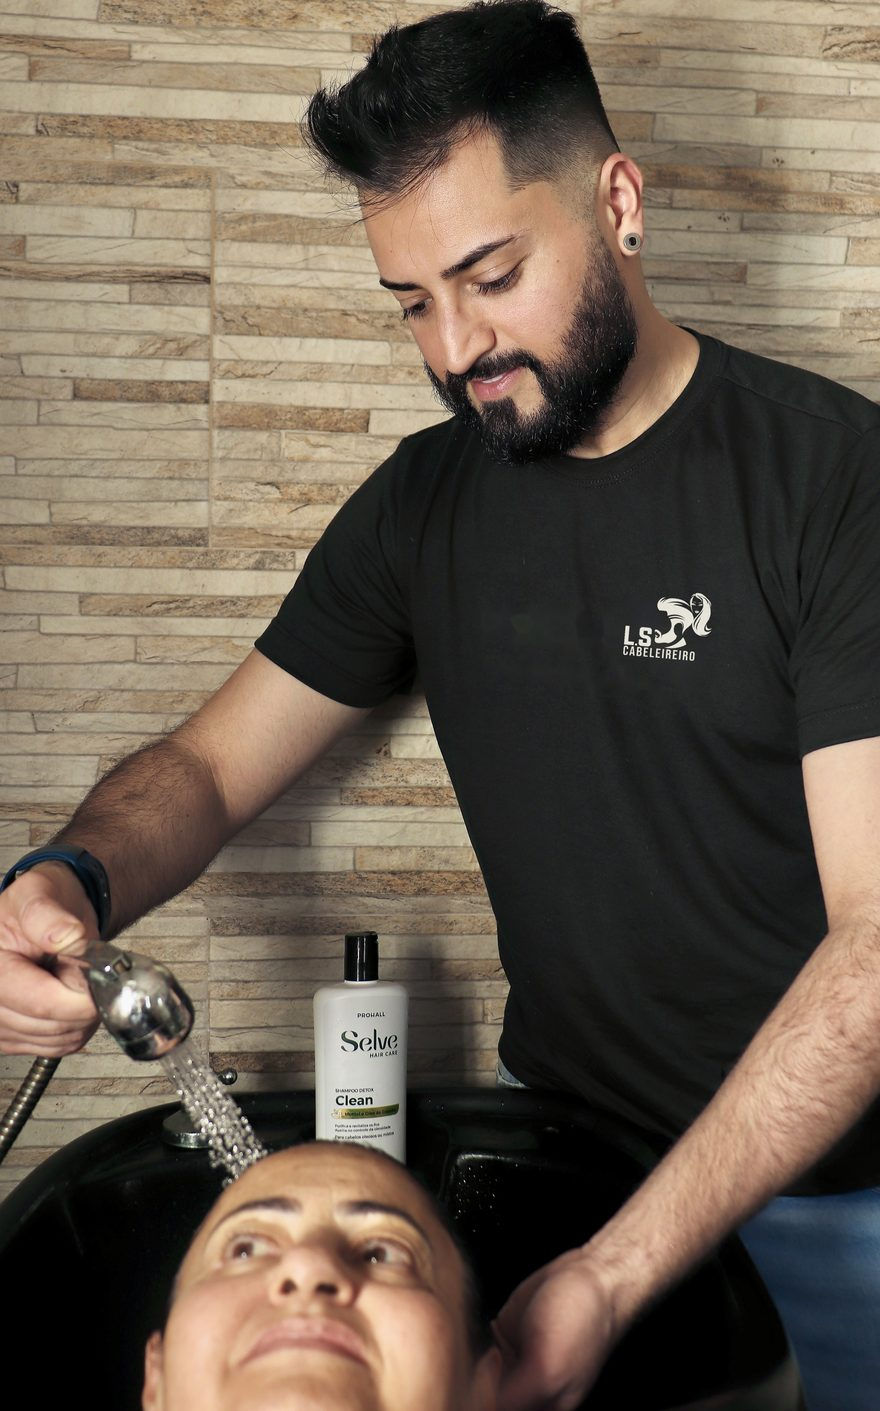
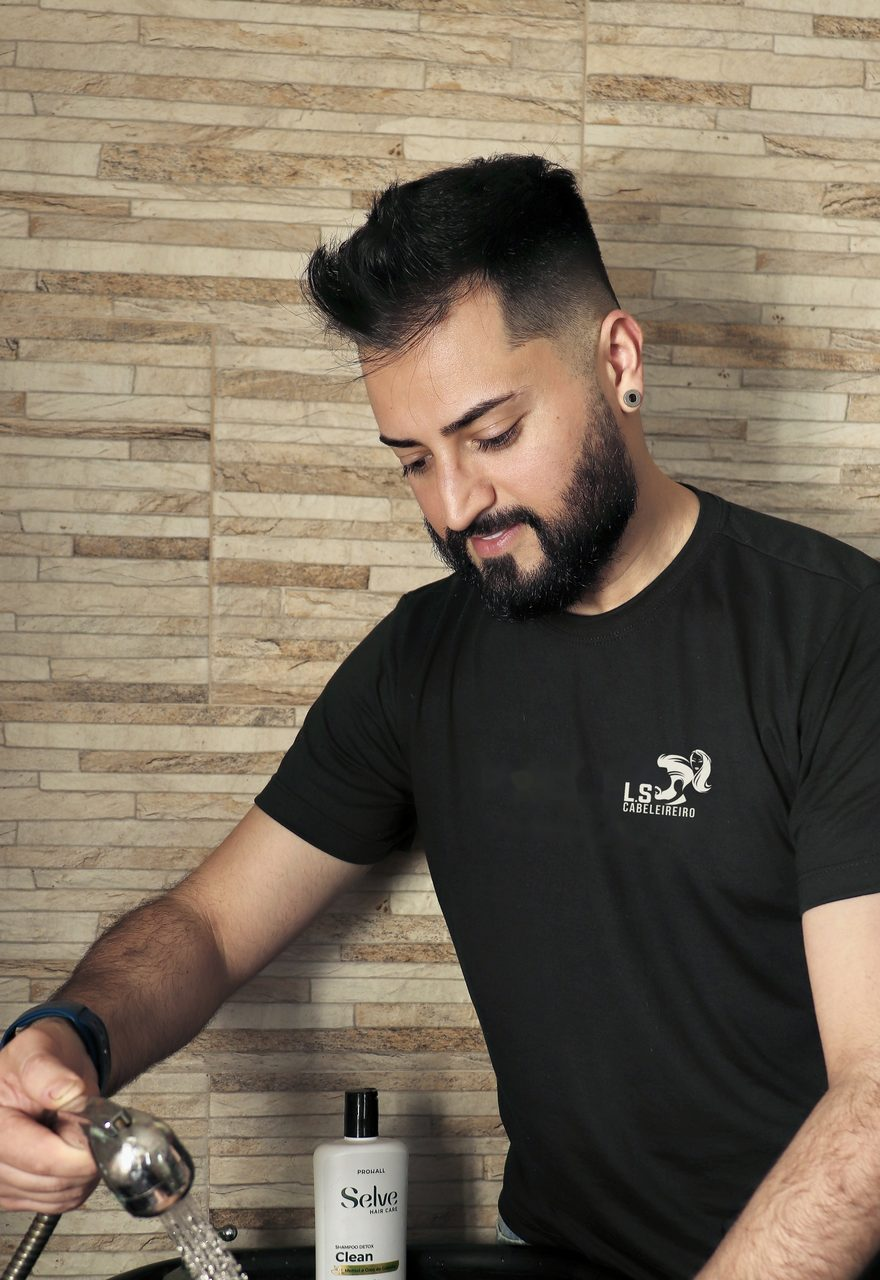
Foto do Léo sem o rosto da cliente
Corta a foto logo acima da cabeça da cliente, para destacar o Léo
(proporção 11:16).

Claude-Session: https://claude.ai/code/session_01VzJzvFVg7VsvkX4KqDrNTY

diff --git a/public/styles.css b/public/styles.css
@@ -322,7 +322,7 @@ textarea { resize: vertical; }
   display: grid; grid-template-columns: .9fr 1.1fr; gap: clamp(2rem, 5vw, 4rem); align-items: center;
   padding: 5rem var(--gutter); max-width: 1180px; margin: 0 auto;
 }
-.sobre-foto img { width: 100%; height: auto; border-radius: 999px 999px var(--raio) var(--raio); aspect-ratio: 5 / 8; object-fit: cover; box-shadow: var(--sombra); border: 10px solid var(--creme-claro); }
+.sobre-foto img { width: 100%; height: auto; border-radius: 999px 999px var(--raio) var(--raio); aspect-ratio: 11 / 16; object-fit: cover; box-shadow: var(--sombra); border: 10px solid var(--creme-claro); }
 .sobre h2 { font-size: clamp(2rem, 5vw, 3rem); font-weight: 500; text-transform: uppercase; }
 .sobre-texto > p:not(.sobretitulo):not(.manuscrito) { color: var(--texto-suave); margin: 1.2rem 0 1.6rem; }
 .redes { display: flex; flex-wrap: wrap; gap: .6rem; }

diff --git a/public/index.html b/public/index.html
@@ -187,7 +187,7 @@
     <!-- SOBRE -->
     <section class="sobre" id="sobre">
       <div class="sobre-foto">
-        <picture><source srcset="assets/leo-atendendo.webp" type="image/webp"><img src="assets/leo-atendendo.jpg" alt="Leonardo Sobrinho lavando o cabelo de uma cliente no lavatório do salão" width="880" height="1411" loading="lazy"></picture>
+        <picture><source srcset="assets/leo-atendendo.webp" type="image/webp"><img src="assets/leo-atendendo.jpg" alt="Leonardo Sobrinho lavando o cabelo de uma cliente no lavatório do salão" width="880" height="1280" loading="lazy"></picture>
       </div>
       <div class="sobre-texto">
         <p class="sobretitulo">Quem vai cuidar de você</p>
